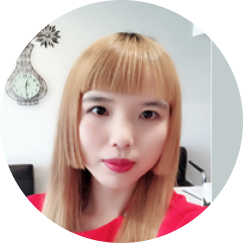
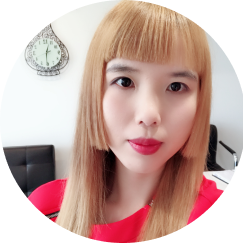
Update about us photos and typo

diff --git a/src/jsx/pages/About.jsx b/src/jsx/pages/About.jsx
@@ -5,7 +5,7 @@ import Footer from "../components/Footer.jsx";
 
 import GenericAvatar from "../../img/about-us/avatar.png";
 import Andy from "../../img/about-us/andrew-easterbrook.png";
-import Will from "../../img/about-us/will.jpg";
+import Will from "../../img/about-us/will.png";
 import Tian from "../../img/about-us/tian-bai.png";
 import Caio from "../../img/about-us/caio-nunes.png";
 import Terence from "../../img/about-us/terence-zhong.png";
@@ -16,6 +16,7 @@ import Limei from "../../img/about-us/limei.png";
 import April from "../../img/about-us/april-liau.png";
 import Lina from "../../img/about-us/lina-xie.png";
 import David from "../../img/about-us/david-paitai.png";
+import Hanbyul from "../../img/about-us/hanbyul-son.png";
 import Infra from "../../img/about-us/openlaw-infrastructure.png";
 
 class About extends Component {
@@ -130,7 +131,7 @@ class About extends Component {
 										<img src={Tian} alt="Tian Bai" />
 										<strong>Tian Bai</strong>
 									</div>
-									<p></p>
+									<p>A passionate Software Developer who graduated with a major in Computer Science and Statistics from Victoria University of Wellington.</p>
 								</div>
 							</div>
 							<div className="cards-list">
@@ -182,14 +183,14 @@ class About extends Component {
 								</div>
 								<div className="card-item-small">
 									<div>
-										<img src={GenericAvatar} alt="Hanbyul Son" />
+										<img src={Hanbyul} alt="Hanbyul Son" />
 										<strong>Hanbyul Son</strong>
 									</div>
 									<p></p>
 								</div>
 							</div>
 
-							<h3>Devops & Orchestration</h3>
+							<h3>Devops &amp; Orchestration</h3>
 							<div className="cards-list">
 								<div className="card-item-small">
 									<div>
@@ -221,13 +222,6 @@ class About extends Component {
 									</div>
 									<p></p>
 								</div>
-								<div className="card-item-small">
-									<div>
-										<img src={GenericAvatar} alt="Yanyi Guo" />
-										<strong>Yanyi Guo</strong>
-									</div>
-									<p></p>
-								</div>
 							</div>
 
 							<h3>Design</h3>
@@ -249,7 +243,7 @@ class About extends Component {
 									</div>
 									<p>
 										Lina is enthusiastic when it comes to web/graphic design. She likes taking on
-										challenges and pursues the production of good results for end uers.
+										challenges and pursues the production of good results for end users.
 									</p>
 								</div>
 							</div>
